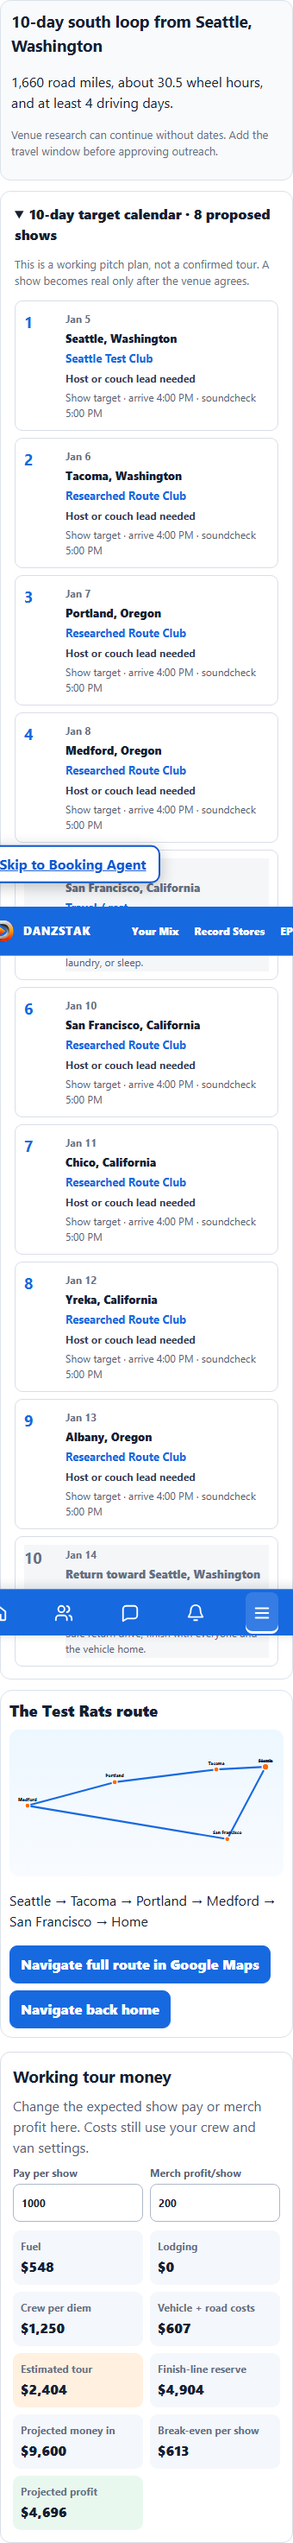
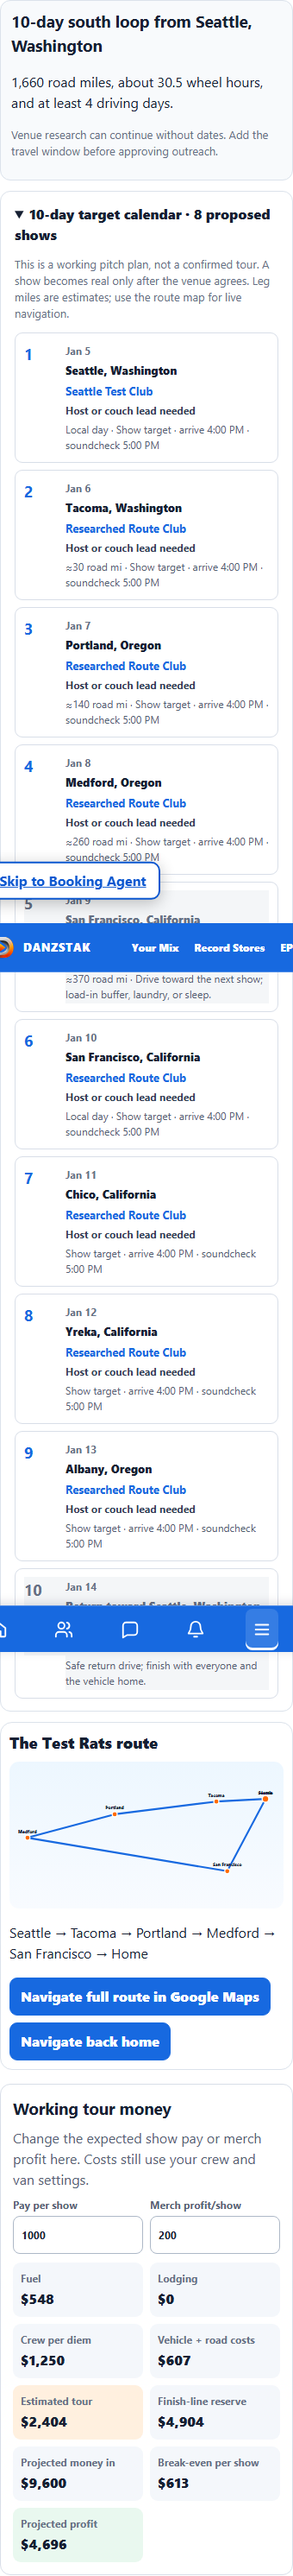
Add estimated road legs to Booking day sheet

diff --git a/assets/booking-agent.js b/assets/booking-agent.js
@@ -1447,7 +1447,7 @@
     details.className = "proposed-calendar";
     summary.textContent = `${days}-day target calendar · ${shows} proposed shows`;
     intro.className = "hint";
-    intro.textContent = "This is a working pitch plan, not a confirmed tour. A show becomes real only after the venue agrees.";
+    intro.textContent = "This is a working pitch plan, not a confirmed tour. A show becomes real only after the venue agrees. Leg miles are estimates; use the route map for live navigation.";
     details.open = true;
     tableBox.className = "tour-day-sheet";
     table.className = "tour-calendar";
@@ -1463,6 +1463,18 @@
       ));
     let showIndex = 0;
     const usedVenues = new Set();
+    let lastPosition = Array.isArray(data.route.start?.position) ? data.route.start.position : null;
+    const estimatedRoadMiles = (left, right) => {
+      if (![left, right].every(position => Array.isArray(position) && position.length === 2 && position.every(Number.isFinite))) return null;
+      const toRadians = value => value * Math.PI / 180,
+        [leftLon, leftLat] = left,
+        [rightLon, rightLat] = right,
+        latDelta = toRadians(rightLat - leftLat),
+        lonDelta = toRadians(rightLon - leftLon),
+        a = Math.sin(latDelta / 2) ** 2 + Math.cos(toRadians(leftLat)) * Math.cos(toRadians(rightLat)) * Math.sin(lonDelta / 2) ** 2,
+        directMiles = 3958.8 * 2 * Math.atan2(Math.sqrt(a), Math.sqrt(1 - a));
+      return Math.max(0, Math.round((directMiles * 1.18) / 5) * 5);
+    };
     for (let day = 0; day < days; day += 1) {
       const date = start ? new Date(start) : null;
       if (date) date.setUTCDate(date.getUTCDate() + day);
@@ -1495,6 +1507,18 @@
         venueCell.textContent = shouldShow ? "Find a room" : "Travel / rest";
         planCell.textContent = returningHome ? "Safe return drive; finish with everyone and the vehicle home." : shouldShow ? "No sourced club lead yet; research this market." : "Drive toward the next show; load-in buffer, laundry, or sleep.";
       }
+      const destinationPosition = finalHomeDay
+          ? data.route.start?.position
+          : market?.position,
+        legMiles = estimatedRoadMiles(lastPosition, destinationPosition);
+      if (legMiles !== null) {
+        planCell.textContent = `${legMiles ? `≈${legMiles} road mi` : "Local day"} · ${planCell.textContent}`;
+      }
+      // Never carry an older city across a stop whose geometry is unavailable;
+      // doing so would turn several unknown legs into one misleading long leg.
+      lastPosition = Array.isArray(destinationPosition) && destinationPosition.length === 2 && destinationPosition.every(Number.isFinite)
+        ? destinationPosition
+        : null;
       if (finalHomeDay) {
         sleepCell.textContent = "Home";
       } else if (sleepStyle === "bus") {

diff --git a/service-worker.js b/service-worker.js
@@ -1,6 +1,6 @@
 "use strict";
 
-const CACHE = "danzstak-shell-v705";
+const CACHE = "danzstak-shell-v706";
 const SHELL = [
   "/assets/offline.js", "/assets/identity-media.js", "/assets/user-content-links.js", "/assets/user-content-links.css",
   "/assets/icon-buttons.js", "/assets/icon-buttons.css", "/assets/mobile-design-system.css", "/assets/danzstak-original-feed.css", "/assets/responsive-media.js", "/assets/responsive-media.css",

diff --git a/booking.html b/booking.html
@@ -688,7 +688,7 @@
     <script src="assets/app-feedback.js?v=3" defer></script>
     <script src="assets/logout.js?v=311" defer></script>
     <script src="assets/booking-identity.js?v=1" defer></script>
-    <script src="assets/booking-agent.js?v=486" defer></script>
+    <script src="assets/booking-agent.js?v=487" defer></script>
     <script src="assets/booking-conversation.js?v=479" defer></script>
   </body>
 </html>

diff --git a/docs/DANZSTAK-DEVELOPMENT-REPORT.md b/docs/DANZSTAK-DEVELOPMENT-REPORT.md
@@ -1212,3 +1212,13 @@ Status as of 2026-11-07: **IMPLEMENTED, TESTED, AND REVIEW-DEPLOYED; PRODUCTION 
 - The complete repository regression suite passed after the final wording and PWA-version changes, including the 11-page site smoke suite and infrastructure validation.
 - Review commit `2a0484a8099de11d6e3fd4c9dcf26120016753e6` deployed through AWS Amplify app `d31oovi2mos5iz`, branch `codex/issue-55-booking-workspace`, job `22`, which succeeded in `us-west-1` from 2026-11-07 00:09:56 to 00:10:45 Europe/Berlin.
 - Hosted verification confirmed Booking Agent `v486` and installed-PWA cache `danzstak-shell-v705`, then reran the browser suite successfully against the review PWA at all six target widths. Production and the shared Booking Lambda remain unchanged.
+
+## Booking Agent — estimated daily road legs
+
+Status as of 2026-11-07: **IMPLEMENTED AND BROWSER-TESTED; REVIEW DEPLOYMENT PENDING**.
+
+- Each day now shows an approximate road-mile leg or `Local day` alongside the load-in plan. The estimate is explicitly labeled and the day-sheet guidance directs musicians to the route map for live navigation.
+- Estimates use available market coordinates and are rounded to five-mile increments. When an intermediate town has no usable geometry, DanzStak omits the leg estimate instead of carrying an older city forward and inventing one misleading long drive.
+- The actual-browser regression fixture intentionally includes fallback markets without coordinates. It verifies useful known legs appear and verifies the final return does not collapse unknown intermediate legs into a false mileage claim.
+- Asset identifiers advance to Booking Agent `v487` and installed-PWA shell `danzstak-shell-v706`.
+- Focused Booking/PWA tests and the actual-browser suite passed at 320, 360, 390, 430, 768, and 1366px after correcting the missing-geometry case.
